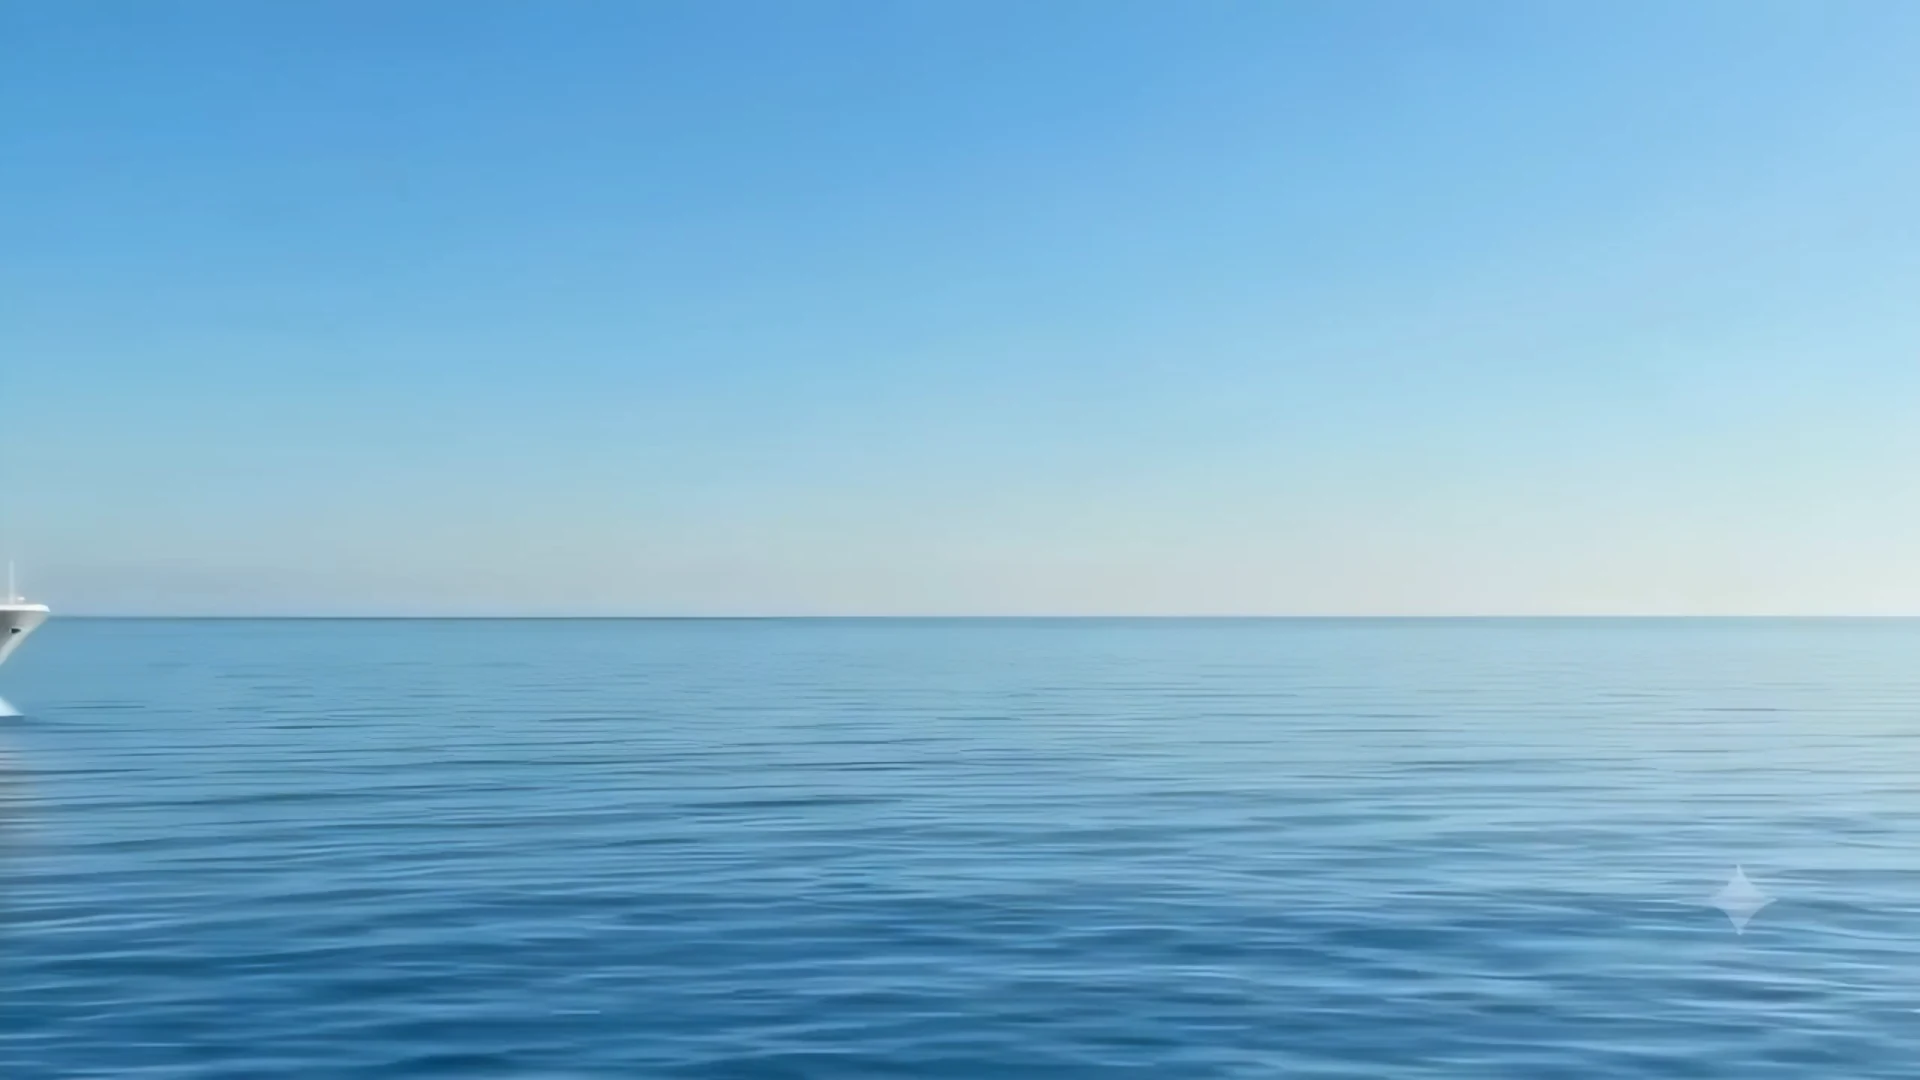
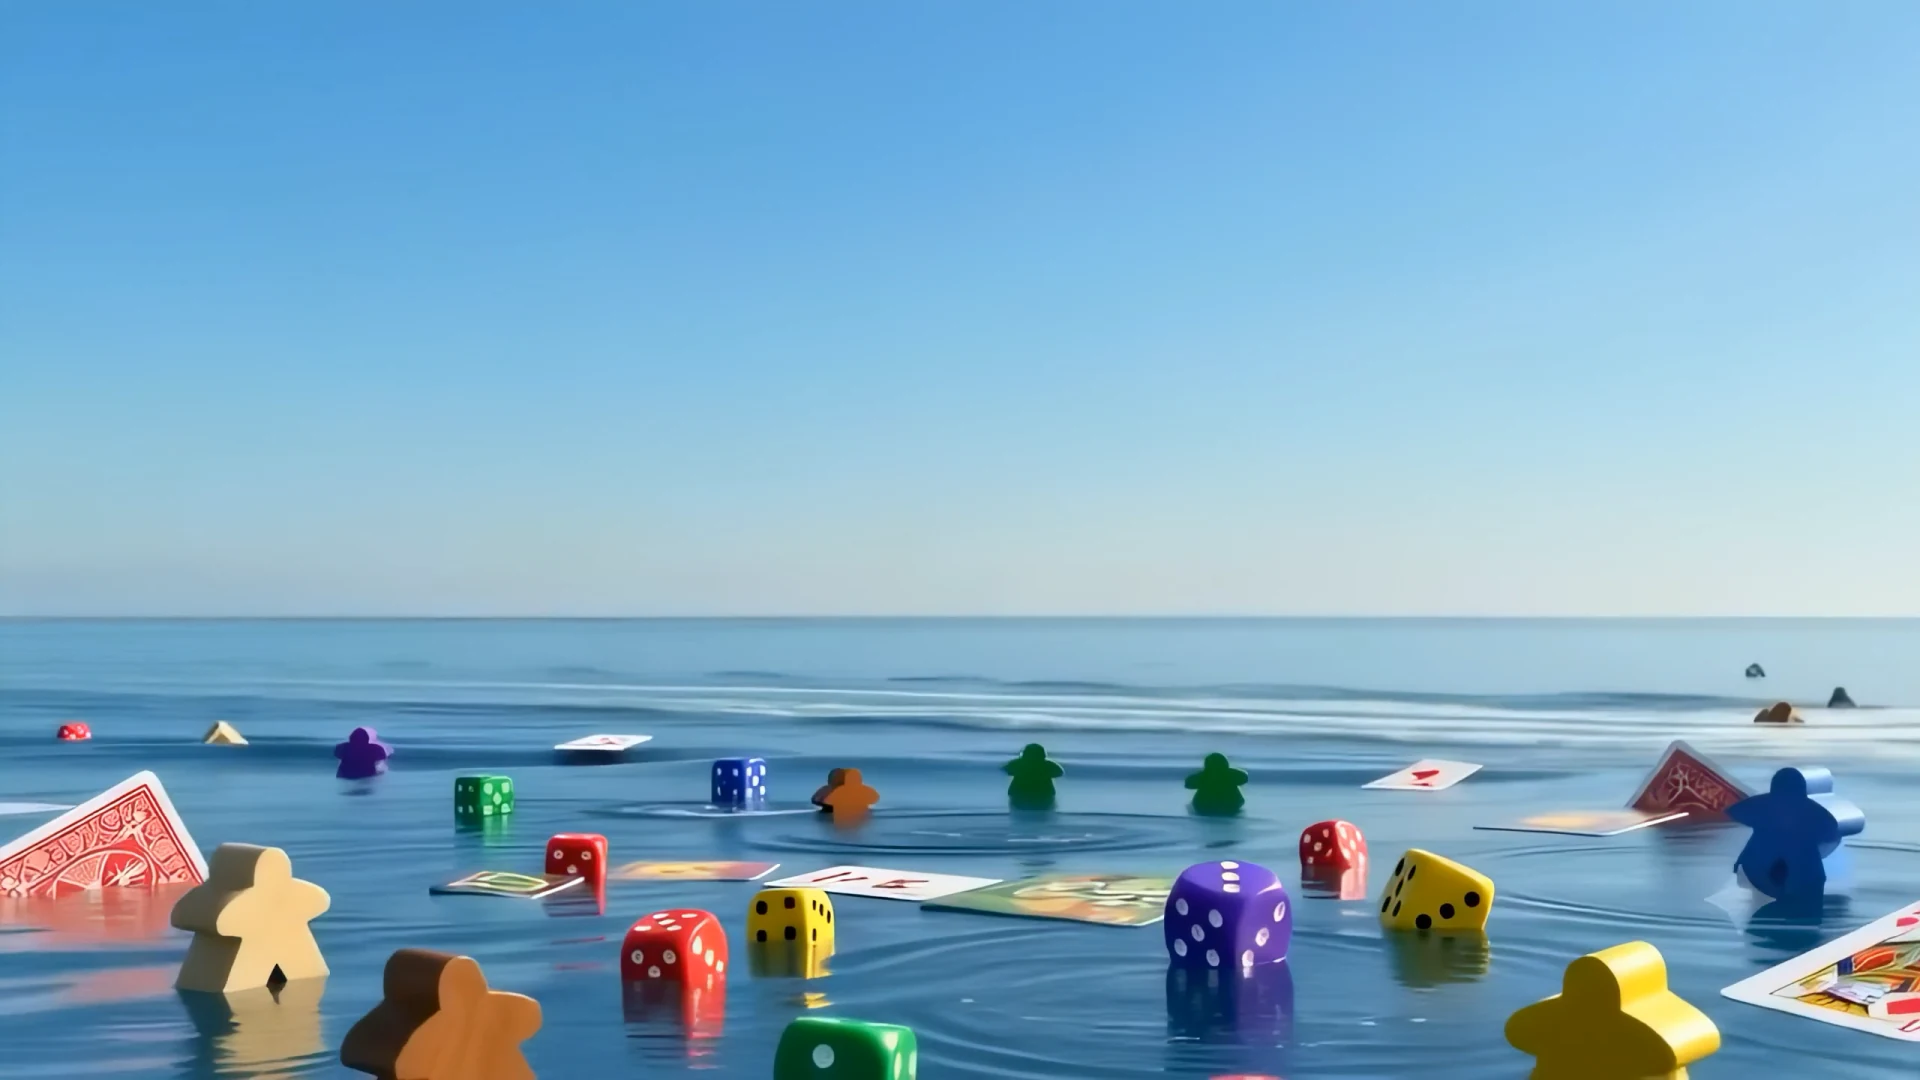
feat(hero): atualizar imagem de fallback

Changed region(s): [[0.0, 0.55, 1.0, 1.0]]

diff --git a/index.html b/index.html
@@ -154,7 +154,7 @@
           <source src="assets/videos/hero-loop.mp4?v=20260712-crf25-trim48" type="video/mp4" media="(min-width: 768px) and (max-width: 1920px)">
         </video>
         <canvas class="hero__canvas" id="heroCanvas" width="1280" height="720" aria-hidden="true"></canvas>
-        <img class="hero__fallback" src="assets/images/hero/hero-fallback.webp" alt="" width="1920" height="1080">
+        <img class="hero__fallback" src="assets/images/hero/hero-fallback.webp?v=20260713-boardgame-ocean" alt="" width="1920" height="1080">
       </div>
       <div class="container hero__inner">
         <img class="hero__logo" src="assets/images/brand/kriativos-on-board-4-edicao.png"
